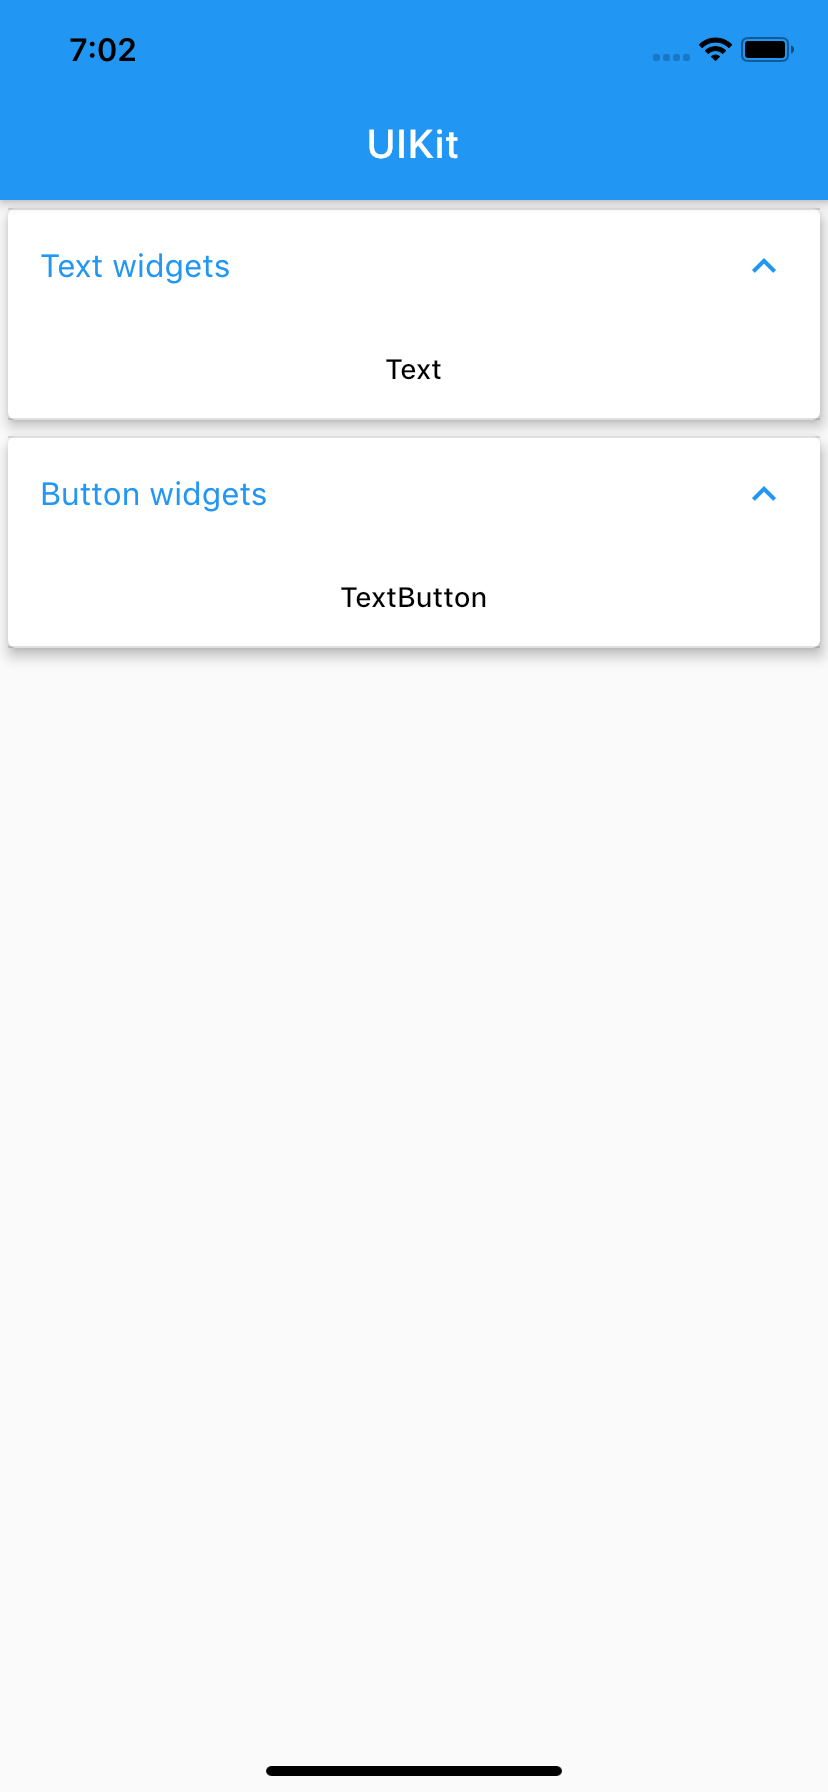
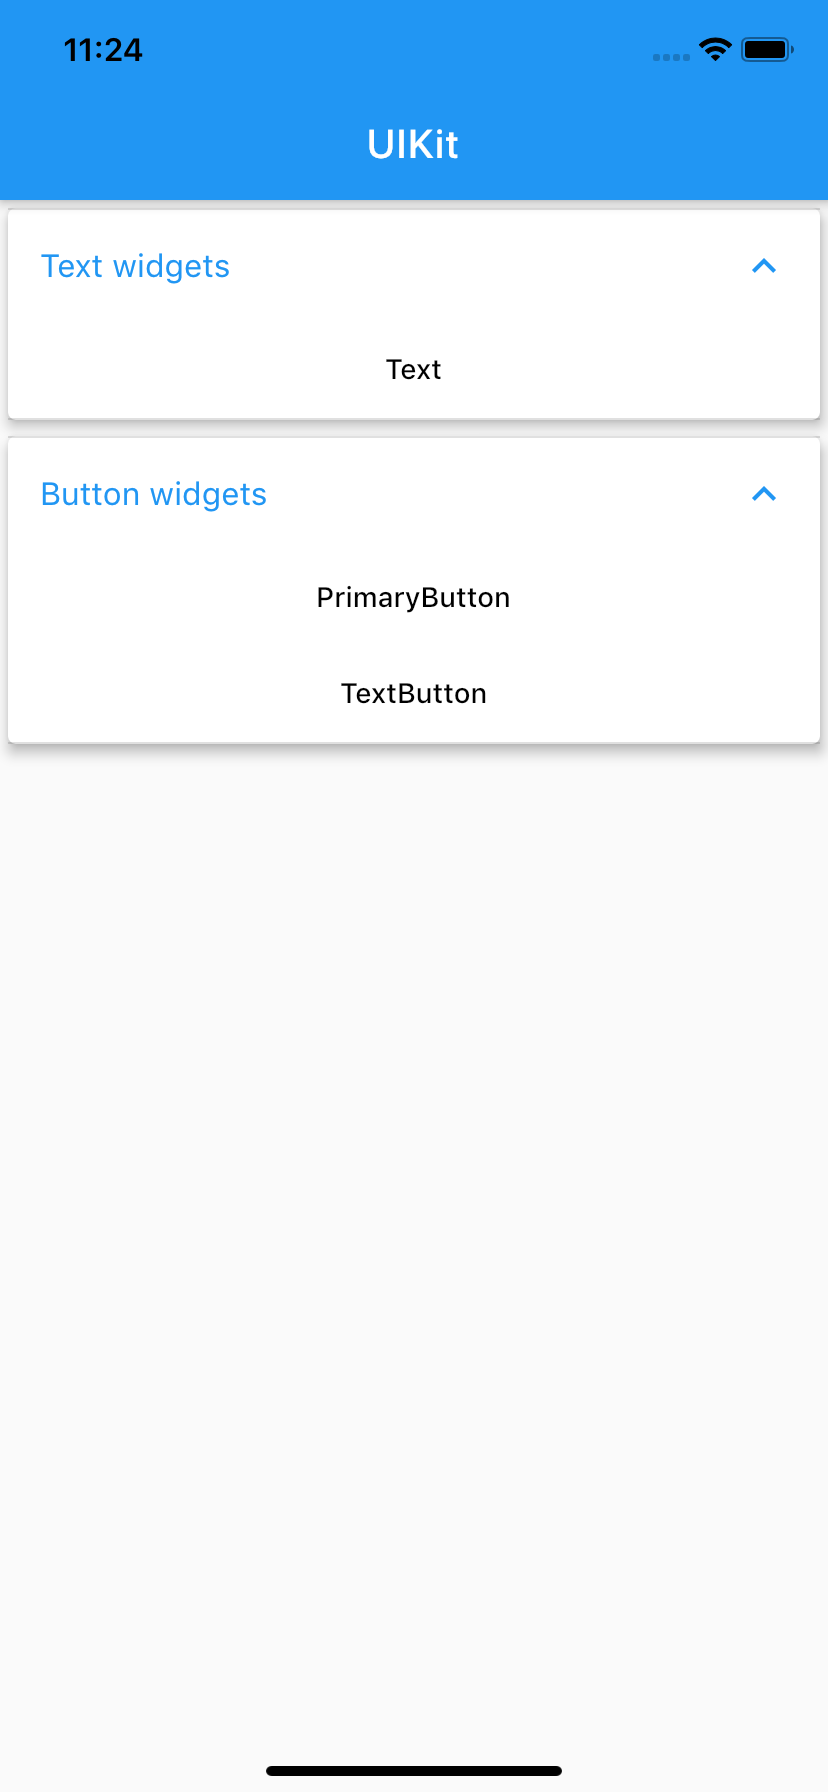
Updating Readme file

Changed region(s): [[0.0, 0.3125, 0.9964, 0.4375], [0.0906, 0.0, 0.1812, 0.0312]]

diff --git a/README.md b/README.md
@@ -1,53 +1,66 @@
 # Flutter UIKit
 
-Flutter library for showing all widgets states
+A Flutter plugin to demonstrate the set of widgets created for an app with available widget states. This plugin may be used either for widget testing or to for getting acquainted with widgets used in project.
+
+<img src="readme_images/1.png" alt="drawing" width="250"/> &nbsp;
+<img src="readme_images/2.png" alt="drawing" width="250"/> <br />
+
 
 ## Install
-add in your ```pubspec.yaml```:
-```
-uikit:
-    git:
-      url: git://github.com/mobile-dualbootpartners/flutter-ui-kit
-      ref: v0.0.1
-```
 
-## How to use
+To use this plugin, add ```dash_kit_uikit ``` as a [dependency in your pubspec.yaml file](https://flutter.dev/docs/development/packages-and-plugins/using-packages). 
 
-Create a builder for a custom widget and include in it all the states of the widget that you want to show in the UIKit:
+
+## Getting Started
+
+Create or use existing widgets required for your app and create UiKitBuilder classes  that will contain all required states for each individual widget.
 
 ```dart
-class TextUiKitBuilder extends UiKitBuilder {
+class PrimaryButtonUiKitBuilder extends UiKitBuilder {
   @override
-  Type get componentType => Text;
+  Type get componentType => PrimaryButton;
 
   @override
   void buildComponentStates() {
-    build('Black text', const Text('Hello world!'));
     build(
-      'Grey text',
-      const Text(
-        'Hello world!',
-        style: TextStyle(color: Colors.grey),
+      'Enabled Primary Button',
+      Center(
+        child: PrimaryButton(
+          text: 'Enabled Primary Button',
+          onPressed: () {},
+          expanded: false,
+        ),
+      ),
+    );
+    build(
+      'Disabled Primary Button',
+      const PrimaryButton(text: 'Disabled Primary Button'),
+    );
+    build(
+      'Expanded Primary Button',
+      PrimaryButton(
+        text: 'Enabled Primary Button',
+        onPressed: () {},
+        expanded: true,
       ),
     );
   }
 }
 ```
 
-When you are using UIKit place builders in the files with a name like ``<widget name>.uikit.dart``, example: ``text.uikit.dart``.
-
 ---
 
-Register groups widgets in the UIKit:
+Create UiKitPage configurator, using ``UiKit.register method``. This function should contain list of UiComponentGroup elements for each individual group of widgets (buttons, input fields, etc.). Each component group receives the string for the group name and list of UiKitBuilder elements for each required widget.
 
 ```dart
-void configureUiKit() {
+void registerUiKitWidgetGroups() {
   UiKit.register(
     () => [
       UiComponentGroup('Text widgets', [
         TextUiKitBuilder(),
       ]),
       UiComponentGroup('Button widgets', [
+        PrimaryButtonUiKitBuilder(),
         FlatButtonUiKitBuilder(),
       ]),
     ],
@@ -55,16 +68,21 @@ void configureUiKit() {
 }
 ```
 
-Use ```configureUiKit()``` in ```main.dart```:
+---
+
+Configure set of required widgets by registering widget groups in ```main.dart```:
+
 ```dart
-void main() { 
-  configureUiKit();
+void main() {
+  registerUiKitWidgetGroups();
   runApp(MyApp());
 }
 ```
+
 ---
 
-Use ```UIKitPage()``` in the place you need:
+Place UiKitPage to required place:
+
 ```dart
 @override
   Widget build(BuildContext context) {
@@ -77,9 +95,13 @@ Use ```UIKitPage()``` in the place you need:
     );
   }
 ```
-you can use ```componentWithPadding``` if neaded:
+
+You can use componentWithPadding if neaded:
+
 ```dart
 UiKitPage(componentWithPadding: true)
 ```
 
-You can also see the [example](https://github.com/mobile-dualbootpartners/flutter-ui-kit/tree/master/example) project
+---
+
+You can also check the [example project](https://github.com/Dash-Kit/dash-kit-ui-kit/tree/master/example).
